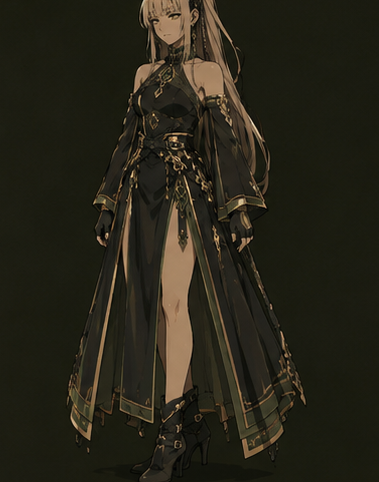
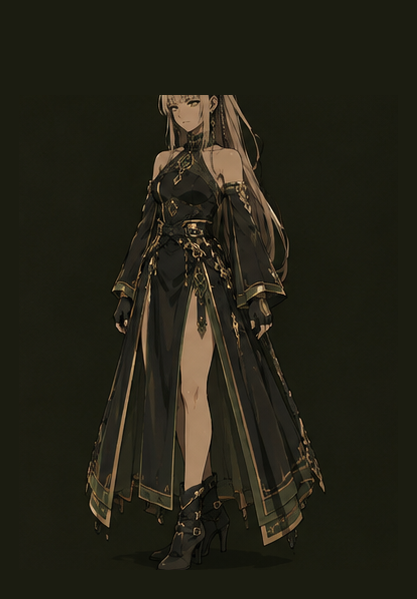
fix: 원화 삼면도 크롭 머리 잘림 + 배경 이음매 수정
- 여캐 시트는 라벨 텍스트가 머리와 같은 높이에 있어 y축 크롭만으로는 못 피해서,
  크롭 후 라벨 영역을 배경색 사각형으로 덮는 방식으로 전면 재작업
- 상하좌우에 원본 배경색으로 여백을 추가해 머리/발 잘림 없이 전신이 보이도록 함
- 카드 자체 배경도 각 이미지의 실제 배경색(베이지/암색)에 맞춰 object-contain 여백에서
  보이던 사각형 이음매(하얀 테두리) 제거
- 원화/일러스트 카드 크기 확대

Changed region(s): [[0.1741, 0.0, 0.8127, 0.9647], [0.3773, 0.9336, 0.4354, 1.0]]

diff --git a/web/components/game/create-screen.tsx b/web/components/game/create-screen.tsx
@@ -13,6 +13,17 @@ import type { Element, Gender } from '@/lib/types'
 // 반투명 글로우/그라디언트에서만 실제 16진값이 필요해 여기서 따로 미러링해 둔다.
 const ELEMENT_HEX: Record<Element, string> = { fire: '#e2542a', ice: '#4fb8e6', earth: '#a97c3f' }
 
+// 원화 삼면도 크롭은 레퍼런스 시트 고유의 배경색(베이지/암색)을 그대로 패딩에 살렸다 —
+// 카드 자체 배경도 같은 색으로 맞춰야 object-contain의 여백에서 이음매가 안 보인다.
+const TURNAROUND_BG: Record<string, string> = {
+  'fire-male': '#e0d4ca',
+  'fire-female': '#dbd0c5',
+  'ice-male': '#eee0d5',
+  'ice-female': '#edded5',
+  'earth-male': '#1b1b10',
+  'earth-female': '#1b1c11',
+}
+
 // 인게임 캐릭터 발밑 마법진 — iso-world.tsx 게이트 포탈과 같은 시각 언어(룬 링+회전 다이아) 재사용
 function CreateMagicCircle({ color }: { color: string }) {
   const R = 92
@@ -57,8 +68,8 @@ export function CreateScreen() {
         <h1 className="relative z-[2] pt-5 text-center font-display text-2xl text-gold-soft text-shadow-ink">캐릭터 생성</h1>
 
         {/* 좌측: 원화 삼면도 장식 */}
-        <div className="absolute top-5 left-5 z-[2] hidden w-40 sm:block md:w-48 lg:w-56">
-          <div className="create-portrait-frame aspect-[4/5]">
+        <div className="absolute top-5 left-5 z-[2] hidden w-44 sm:block md:w-52 lg:w-60">
+          <div className="create-portrait-frame aspect-[4/5]" style={{ background: TURNAROUND_BG[`${element}-${gender}`] }}>
             <Image
               src={`/images/portraits/turnaround-${element}-${gender}.png`}
               alt={`${meta.name} 원화 삼면도`}
@@ -70,7 +81,7 @@ export function CreateScreen() {
         </div>
 
         {/* 우측 상단: 일러스트 미리보기 */}
-        <div className="absolute top-5 right-5 z-[2] w-32 sm:w-36 md:w-40">
+        <div className="absolute top-5 right-5 z-[2] w-36 sm:w-40 md:w-44">
           <div className="create-portrait-frame create-portrait-frame-sm">
             <HeroPortrait element={element} gender={gender} className="h-full w-full" />
           </div>
